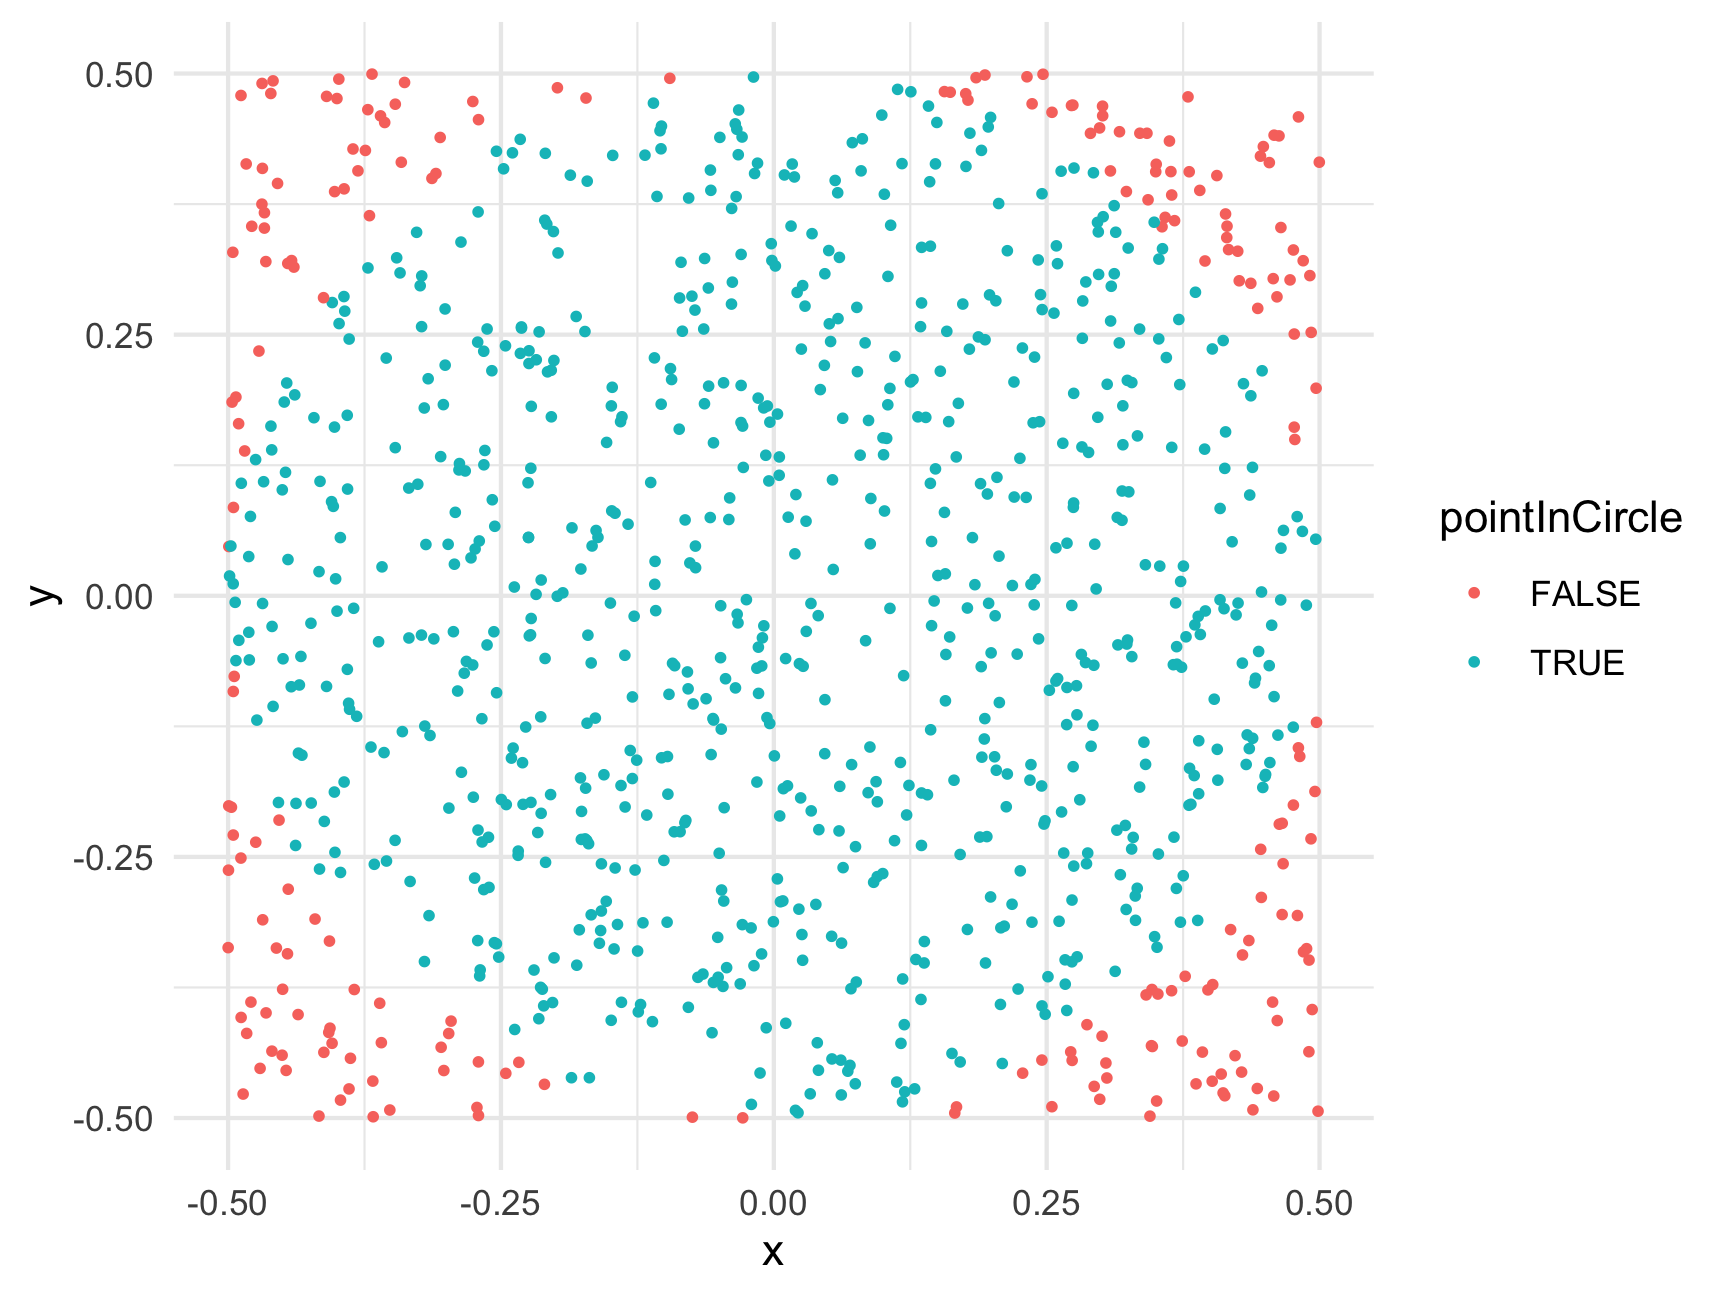
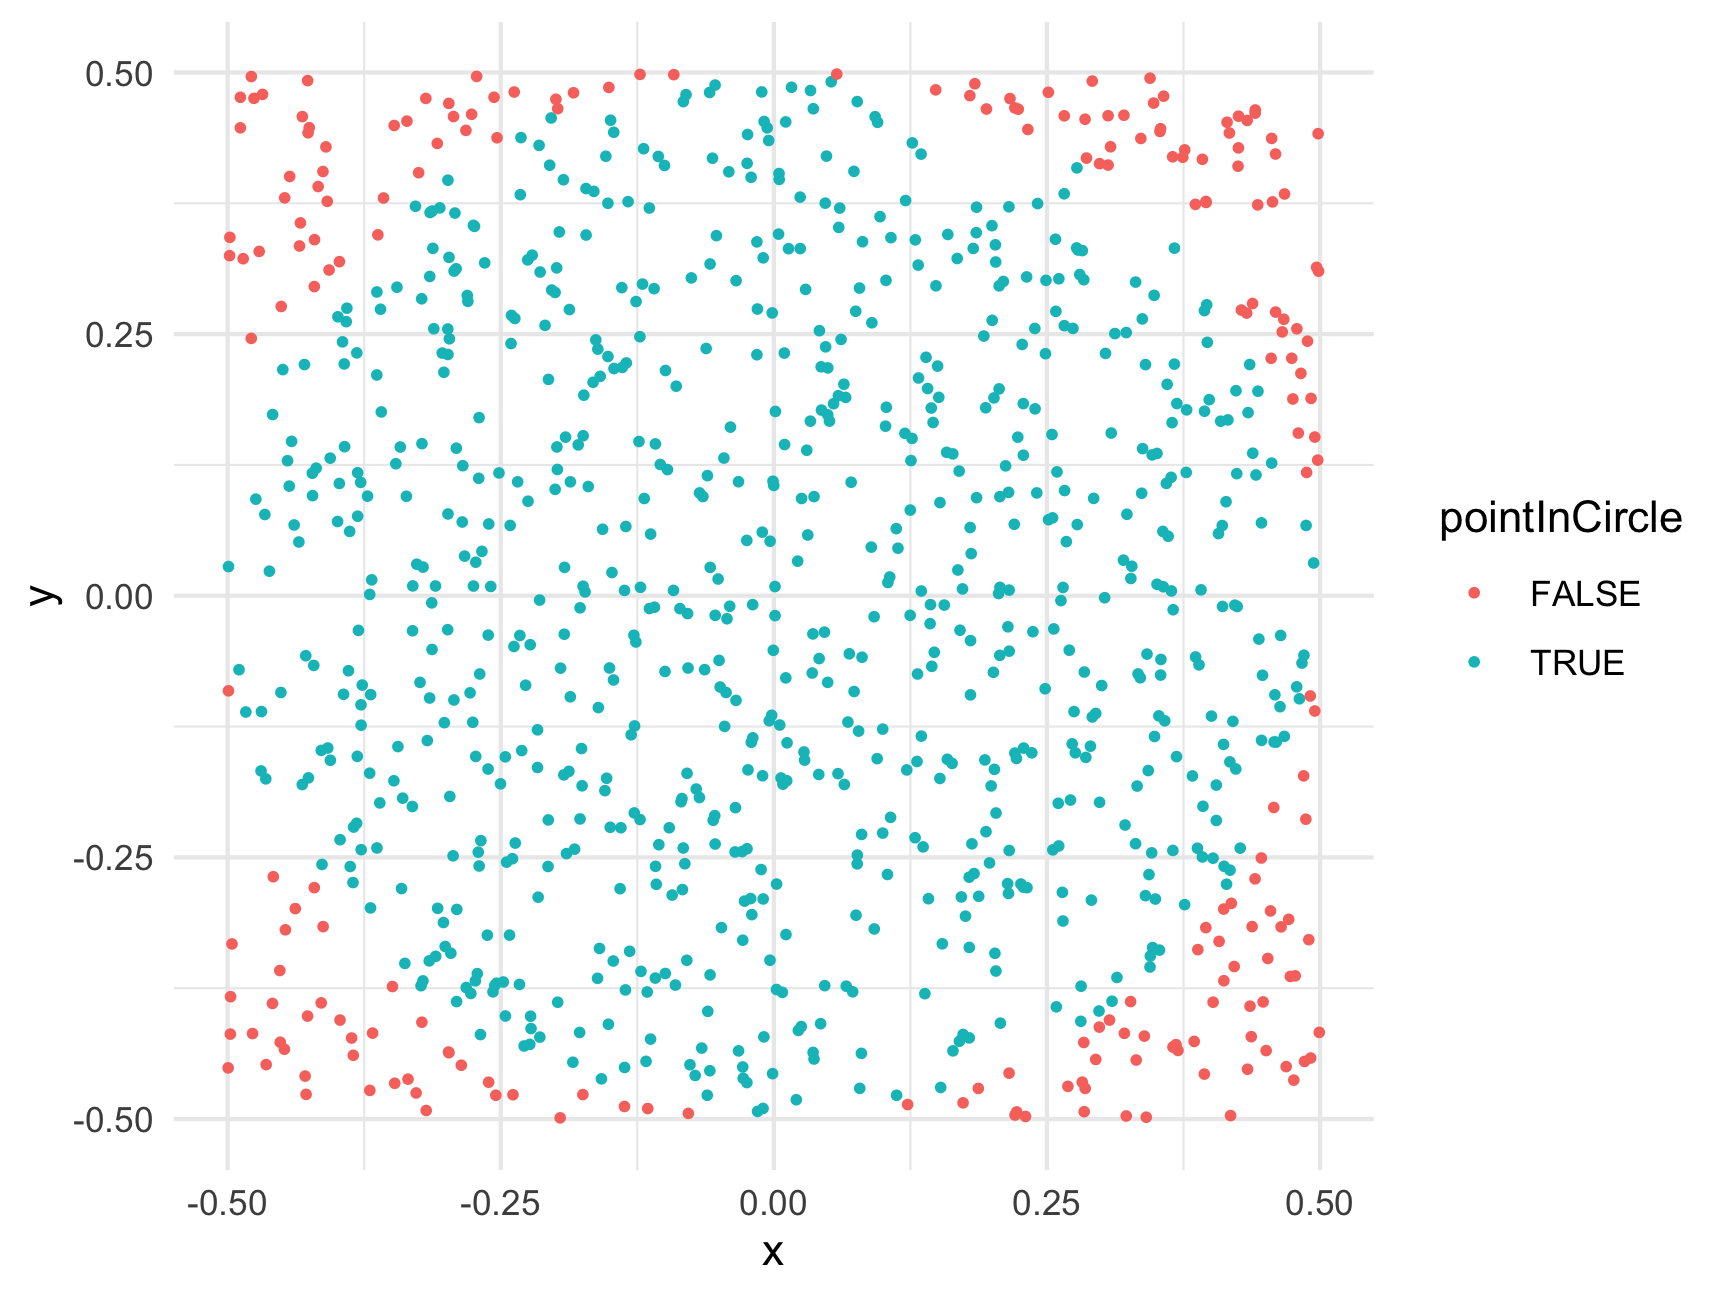
Deploying to gh-pages from  @ a56f3274eae7f2f5a02ce0c614069cd77e819b6d 🚀

diff --git a/r13-monte-carlo-methods.html b/r13-monte-carlo-methods.html
@@ -812,11 +812,11 @@ ratio &lt;- sum(belowCurve) / numTrials
 totalArea &lt;- (7 - 3) * 7^2 # Rectangle length x height = 196
 areaUnderCurve &lt;- ratio * totalArea
 areaUnderCurve</code></pre>
-<pre><code>#&gt; [1] 105.3676</code></pre>
-<p>So, using Monte Carlo simulation with 100,000 points, we estimate that the area under the curve is 105.36764. How’d we do? Well, if you’re familiar with calculus, the integral of <span class="math inline">\(f(x) = x^2\)</span> has a closed-form solution (<span class="math inline">\(\frac{x^3}{3} + C\)</span>), so we can check our estimate against the pure-math solution:</p>
+<pre><code>#&gt; [1] 105.3128</code></pre>
+<p>So, using Monte Carlo simulation with 100,000 points, we estimate that the area under the curve is 105.31276. How’d we do? Well, if you’re familiar with calculus, the integral of <span class="math inline">\(f(x) = x^2\)</span> has a closed-form solution (<span class="math inline">\(\frac{x^3}{3} + C\)</span>), so we can check our estimate against the pure-math solution:</p>
 <p><span class="math display">\[\int_{3}^{7} x^2 \mathrm{dx} = \left ( \frac{x^3}{3} \right ) \Big|_3^7 = \frac{7^3}{3} - \frac{3^3}{3} = 105.33\bar{3}\]</span></p>
-<p>So our estimate error is: <code>105.333 -</code> <code>105.36764</code> <code>=</code> <code>-0.0343067</code>.</p>
-<p>That’s an error of just 0.03 % - not bad!</p>
+<p>So our estimate error is: <code>105.333 -</code> <code>105.31276</code> <code>=</code> <code>0.0205733</code>.</p>
+<p>That’s an error of just 0.02 % - not bad!</p>
 <hr />
 </div>
 <div id="monte-carlo-pi" class="section level1">
@@ -846,13 +846,13 @@ points &lt;- data.frame(
     x = runif(numTrials, -0.5, 0.5),
     y = runif(numTrials, -0.5, 0.5))
 head(points)</code></pre>
-<pre><code>#&gt;             x           y
-#&gt; 1  0.44046338 -0.08343234
-#&gt; 2 -0.32620910  0.10679098
-#&gt; 3  0.17787641  0.47455214
-#&gt; 4  0.21111440 -0.31630211
-#&gt; 5 -0.07694856  0.03145083
-#&gt; 6  0.38214284 -0.19959939</code></pre>
+<pre><code>#&gt;             x          y
+#&gt; 1 -0.30206922  0.2134966
+#&gt; 2  0.04169466  0.2532599
+#&gt; 3  0.35069688  0.1359762
+#&gt; 4  0.44788640 -0.3881137
+#&gt; 5  0.43836850  0.1361937
+#&gt; 6  0.32045141  0.4591213</code></pre>
 <p>For this example, we’re putting the points in a data frame to make it easier to work with. Now that we have random x and y points, let’s compute the radius to each point (the distance from <code>(x, y) = (0, 0)</code>) so we can determine which points fall inside the circle (which has a radius of 0.5):</p>
 <pre class="r"><code>library(dplyr)
 points &lt;- points %&gt;%
@@ -869,9 +869,9 @@ ggplot(points) +
 <pre class="r"><code>ratio &lt;- sum(points$pointInCircle) / nrow(points)
 piApprox &lt;- 4 * ratio
 piApprox</code></pre>
-<pre><code>#&gt; [1] 3.108</code></pre>
-<p>So our estimate error is: <code>3.1415 -</code> <code>3.108</code> <code>=</code> <code>-0.0335927</code>.</p>
-<p>That’s an error of just 1.07 % - not bad for only 1,000 points!</p>
+<pre><code>#&gt; [1] 3.14</code></pre>
+<p>So our estimate error is: <code>3.1415 -</code> <code>3.14</code> <code>=</code> <code>-0.0015927</code>.</p>
+<p>That’s an error of just 0.05 % - not bad for only 1,000 points!</p>
 <p>To get an even better estimate of <span class="math inline">\(\pi\)</span>, we can increase N. Let’s see what we get with 100,000 trials:</p>
 <pre class="r"><code>numTrials &lt;- 100000
 points &lt;- data.frame(
@@ -883,13 +883,13 @@ points &lt;- data.frame(
 ratio &lt;- sum(points$pointInCircle) / nrow(points)
 piApprox &lt;- 4 * ratio
 piApprox</code></pre>
-<pre><code>#&gt; [1] 3.1434</code></pre>
+<pre><code>#&gt; [1] 3.13648</code></pre>
 <pre class="r"><code># Compute error:
 error &lt;- piApprox - pi
 percentError &lt;- round(100*abs(error / pi), 2)
 percentError</code></pre>
-<pre><code>#&gt; [1] 0.06</code></pre>
-<p>By increasing the number of trials from 1,000 to 100,000, we improved our estimate error from 1.07 % to 0.06 %!</p>
+<pre><code>#&gt; [1] 0.16</code></pre>
+<p>By increasing the number of trials from 1,000 to 100,000, we improved our estimate error from 0.05 % to 0.16 %!</p>
 <hr />
 <p><strong>Page sources</strong>:</p>
 <p>Some content on this page has been modified from other courses, including:</p>

diff --git a/r2-functions-packages.html b/r2-functions-packages.html
@@ -770,7 +770,7 @@ div.tocify {
 <p>Here the letters <code>sqrt</code> are short for “square root,” and the value inside the <code>()</code> is the “argument” to the function. In the example above, the value <code>225</code> is the “argument”.</p>
 <p>Keep in mind that not all functions have (or require) arguments:</p>
 <pre class="r"><code>date() # Returns the current date and time</code></pre>
-<pre><code>#&gt; [1] &quot;Thu Mar  3 14:40:28 2022&quot;</code></pre>
+<pre><code>#&gt; [1] &quot;Thu Mar  3 17:49:01 2022&quot;</code></pre>
 <p>(the date above is the date this page was last built)</p>
 <div id="multiple-arguments" class="section level2">
 <h2>Multiple arguments</h2>
@@ -988,9 +988,9 @@ library(packagename)   # This also works</code></pre>
 <p>Now that you have the package installed on your computer, try loading it using <code>library(wikifacts)</code>, then trying using some of it’s functions:</p>
 <pre class="r"><code>library(wikifacts) # Load the library</code></pre>
 <pre class="r"><code>wiki_randomfact()</code></pre>
-<pre><code>#&gt; [1] &quot;Did you know that on April 17 in 1986 – Having supposedly been at war for 335 years without a single shot having been fired and no casualties incurred, the Netherlands and the Isles of Scilly declared peace. (Courtesy of Wikipedia)&quot;</code></pre>
+<pre><code>#&gt; [1] &quot;Here&#39;s some news from 27 March 2019. The U.S. Special Counsel investigation, headed by Robert Mueller (pictured), concludes. (Courtesy of Wikipedia)&quot;</code></pre>
 <pre class="r"><code>wiki_didyouknow()</code></pre>
-<pre><code>#&gt; [1] &quot;Did you know that Neanderthals went fishing? (Courtesy of Wikipedia)&quot;</code></pre>
+<pre><code>#&gt; [1] &quot;Did you know that basketball player Trey Kell signed with the Bosnian team Igokea over nine other European offers? (Courtesy of Wikipedia)&quot;</code></pre>
 <p>In case you’re wondering, the only thing this package does is generate messages containing random facts from <a href="https://www.wikipedia.org/">Wikipedia</a>.</p>
 </div>
 <div id="using-only-some-package-functions" class="section level2">
@@ -1001,7 +1001,7 @@ library(packagename)   # This also works</code></pre>
 </blockquote>
 <p>Here I use the name of the <em>package</em> followed by <code>::</code> to tell R that I’m looking for a function that is in that package. For example, if I didn’t want to load the whole <strong>wikifacts</strong> library but still wanted to use the <code>wiki_randomfact()</code> function, I could do this:</p>
 <pre class="r"><code>wikifacts::wiki_randomfact()</code></pre>
-<pre><code>#&gt; [1] &quot;Did you know that on July 22 in 2002 – The Israel Defense Forces dropped a bomb on the home of Salah Shehade, the leader of the military arm of Hamas, killing him, his family and some neighboring civilians, among them seven children. (Courtesy of Wikipedia)&quot;</code></pre>
+<pre><code>#&gt; [1] &quot;Did you know that the Comoé National Park Research Station is one of the most modern field stations in Africa? (Courtesy of Wikipedia)&quot;</code></pre>
 <p>Where this is particularly handy is when two packages have a function with the same name. If you load both library, R might not know which function to use. In those cases, it’s best to also provide the <strong>package</strong> name. For example, let’s say there was a package called <strong>apples</strong> and another called <strong>bananas</strong>, and each had a function named <code>fruitName()</code>. If I wanted to use each of them in my code, I would need to specify the package names like this:</p>
 <pre class="r"><code>apples::fruitName()
 bananas::fruitName()</code></pre>

diff --git a/c8-python.html b/c8-python.html
@@ -31,6 +31,7 @@
 <script src="site_libs/navigation-1.1/tabsets.js"></script>
 <link href="site_libs/highlightjs-9.12.0/textmate.css" rel="stylesheet" />
 <script src="site_libs/highlightjs-9.12.0/highlight.js"></script>
+<script src="site_libs/fitvids-2.1.1/fitvids.min.js"></script>
 <link href="site_libs/font-awesome-5.1.0/css/all.css" rel="stylesheet" />
 <link href="site_libs/font-awesome-5.1.0/css/v4-shims.css" rel="stylesheet" />
 <link rel="icon" href="images/favicon.ico">
@@ -663,7 +664,35 @@ $(document).ready(function () {
 </div>
 
 
-<p>Coming soon!</p>
+<div class = "row">
+<div class="col-md-5">
+<p><strong>KEYBOARD SHORTCUTS FOR SLIDES:</strong></p>
+<ul>
+<li>Use <kbd>←</kbd> and <kbd>→</kbd> to navigate through the slides.</li>
+<li>Use <kbd>f</kbd> to toggle full screen.</li>
+<li>Use <kbd>o</kbd> to view an overview of all slides.</li>
+<li>Use <kbd>h</kbd> to see a list of other shortcuts.</li>
+</ul>
+</div>
+<div class="row">
+<div class="col-md-3">
+<div class="class-buttons">
+<p><strong>SLIDES</strong></p>
+<p><a href=class/8-python/index.html class="btn-slides" target="_blank"><i class="fas fa-external-link-alt"></i> View in new window</a></p>
+<p><a href=class/8-python/8-python.pdf class="btn-slides"><i class="fas fa-file-pdf"></i> Download as PDF</a></p>
+</div>
+</div>
+<div class="col-md-3">
+<div class="class-buttons">
+<p><strong>CLASS PRACTICE</strong></p>
+<p><a href=class/8-python/8-python.zip class="btn-notes"><i class="fas fa-download"></i> Download zip file</a></p>
+</div>
+</div>
+</div>
+<div class="shareagain" style="min-width:300px;margin:1em auto;">
+<iframe src="class/8-python/index.html" width="1600" height="900" style="border:2px solid currentColor;" loading="lazy" allowfullscreen></iframe>
+<script>fitvids('.shareagain', {players: 'iframe'});</script>
+</div>
 
 <hr>
 
